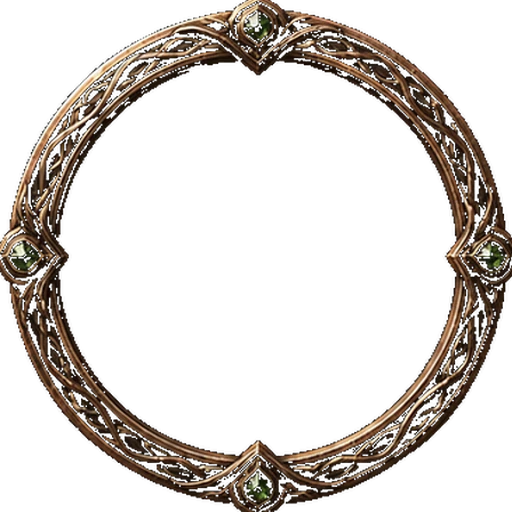
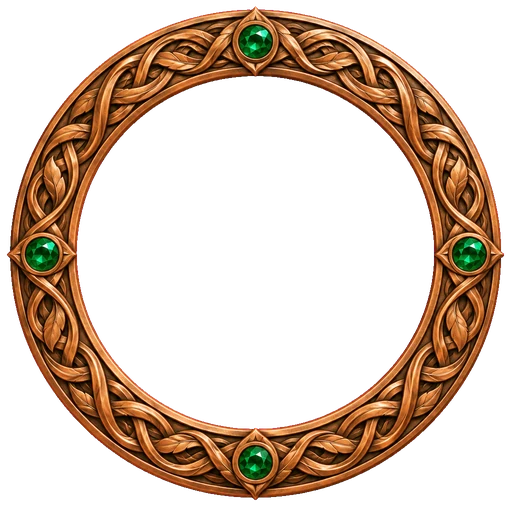
Replace border art with solid, opaque redraws
All 10 borders regenerated from the originals; the old art had 15-35%
semi-transparent pixels in the band, so the page showed through in light
mode. innerR values re-measured for the new art.

diff --git a/js/borders.js b/js/borders.js
@@ -6,14 +6,14 @@
  * To add a new border: drop a 512×512 WebP (transparent) in assets/borders/ and add an entry here.
  */
 const BORDERS = [
-  { id: 'iron-ring',       name: 'Iron Ring',       src: 'assets/borders/iron-ring.webp',       innerR: 220 },
-  { id: 'celtic-gold',     name: 'Celtic Gold',     src: 'assets/borders/celtic-gold.webp',     innerR: 204 },
-  { id: 'vine-serpent',    name: 'Vine Serpent',    src: 'assets/borders/vine-serpent.webp',    innerR: 206 },
-  { id: 'blood-ruby',      name: 'Blood Ruby',      src: 'assets/borders/blood-ruby.webp',      innerR: 201 },
-  { id: 'runic-amethyst',  name: 'Runic Amethyst',  src: 'assets/borders/runic-amethyst.webp',  innerR: 205 },
-  { id: 'sapphire-knot',   name: 'Sapphire Knot',   src: 'assets/borders/sapphire-knot.webp',   innerR: 210 },
-  { id: 'dragon-coil',     name: 'Dragon Coil',     src: 'assets/borders/dragon-coil.webp',     innerR: 203 },
-  { id: 'dwarven-rune',    name: 'Dwarven Rune',    src: 'assets/borders/dwarven-rune.webp',    innerR: 199 },
-  { id: 'iron-barb',       name: 'Iron Barb',       src: 'assets/borders/iron-barb.webp',       innerR: 203 },
-  { id: 'copper-vine',     name: 'Copper Vine',     src: 'assets/borders/copper-vine.webp',     innerR: 201 },
+  { id: 'iron-ring',       name: 'Iron Ring',       src: 'assets/borders/iron-ring.webp',       innerR: 199 },
+  { id: 'celtic-gold',     name: 'Celtic Gold',     src: 'assets/borders/celtic-gold.webp',     innerR: 186 },
+  { id: 'vine-serpent',    name: 'Vine Serpent',    src: 'assets/borders/vine-serpent.webp',    innerR: 182 },
+  { id: 'blood-ruby',      name: 'Blood Ruby',      src: 'assets/borders/blood-ruby.webp',      innerR: 191 },
+  { id: 'runic-amethyst',  name: 'Runic Amethyst',  src: 'assets/borders/runic-amethyst.webp',  innerR: 196 },
+  { id: 'sapphire-knot',   name: 'Sapphire Knot',   src: 'assets/borders/sapphire-knot.webp',   innerR: 184 },
+  { id: 'dragon-coil',     name: 'Dragon Coil',     src: 'assets/borders/dragon-coil.webp',     innerR: 195 },
+  { id: 'dwarven-rune',    name: 'Dwarven Rune',    src: 'assets/borders/dwarven-rune.webp',    innerR: 178 },
+  { id: 'iron-barb',       name: 'Iron Barb',       src: 'assets/borders/iron-barb.webp',       innerR: 177 },
+  { id: 'copper-vine',     name: 'Copper Vine',     src: 'assets/borders/copper-vine.webp',     innerR: 185 },
 ];

diff --git a/CHANGELOG.md b/CHANGELOG.md
@@ -8,7 +8,7 @@
 - Portraits can be dropped or chosen straight on the preview
 - Exports are named after the portrait (`goblin-token.png`)
 - Removed Tailwind and daisyUI; the CSS is plain and there is no build step
-- Border images are WebP: 2.4 MB down to 0.8 MB, no visible change
+- New border art for all 10 borders, redrawn from the originals with a solid, fully opaque band (the old art was 15–35% semi-transparent, so the page showed through the metal); WebP, 0.9 MB in total
 
 ### Added
 - Paste a portrait with Ctrl+V / Cmd+V
